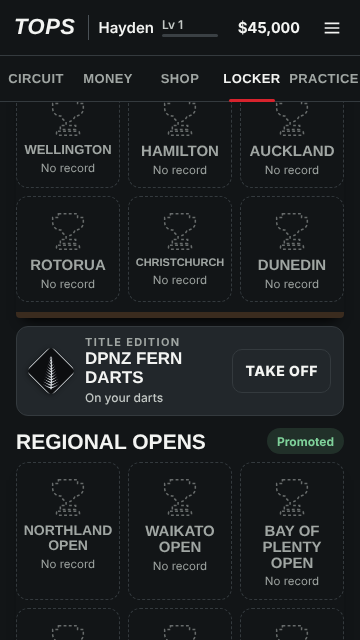
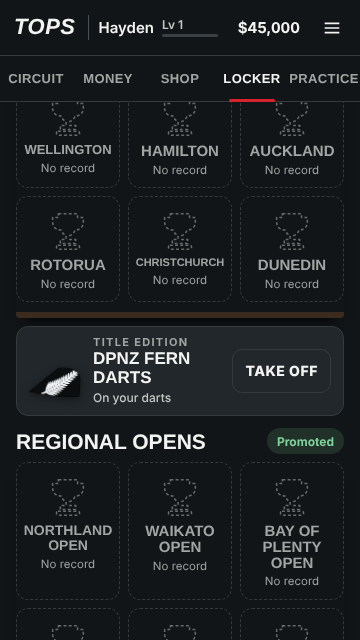
CAR-PRESTIGE: doc 75c flights; Club/Opens shirts hidden until their kit art; TT darts sell now ('shirt joins your locker when it's made'); flight swatch thumb; fix a // comment that swallowed the row's level lookup; s3-prestige checks the hidden Club row and the TT copy; tests/prestige-180.js: the c
Claude-Session: https://claude.ai/code/session_01WmQEKW8P3JoD3KeW8VR2JV

Changed region(s): [[0.0611, 0.5312, 0.55, 0.625]]

diff --git a/tests/s3-prestige.js b/tests/s3-prestige.js
@@ -1,6 +1,6 @@
 // CAR-PRESTIGE shop (Producer 22 Nov 07:03, decided with ChatGPT): a title at a level unlocks that level's premium edition, the trophy on the
 // shelf is the free proof, buying is cosmetic and one-off and never takes the bank below the next entry fee.
-//   1 locked until a title at that level (the Worlds edition needs the World Championship itself); kit-art editions (Club, Opens) aren't sold yet
+//   1 locked until a title at that level (the Worlds edition needs the World Championship itself); kit-art editions (Club, Opens) aren't sold or listed yet; the TT darts sell now and say the shirt follows
 //   2 a title + the money: bought, the bank drops by exactly the price, the edition is owned and worn (your darts wear it: TOPS_GEAR)
 //   3 the floor: a purchase that would leave less than the next entry fee is refused, the bank unchanged
 //   4 cosmetic only: setupBaseMult / setupTolMult / setupSwayMult (the throw maths) are identical with and without the edition
@@ -44,6 +44,7 @@ const f = []; const out = {}; fs.mkdirSync(path.join(dir, 'wip/car-prestige'), {
     await p.evaluate(() => { const ch = document.querySelector('[data-s3="troph"]'); if (ch) ch.click(); }); await p.waitForTimeout(1500);
     return p.evaluate(() => ({ rows: [...document.querySelectorAll('[data-edrow]')].map(r => r.innerText.replace(/\s+/g, ' ')) })); };
   out.shelf = await shelf();
+  out.tt = await p.evaluate(() => { const k = career().circuit; k.history.push({ week: 30, id: 'tt_1', n: 'Trans-Tasman', level: 4, fin: 'W', prize: 0, pts: 0 }); const d = document.createElement('div'); d.innerHTML = TOPS_PRESTIGE.row(4); return d.innerText.replace(/\s+/g, ' '); });
   // the Club edition isn't on sale (kit art), so test the buy flow on DPNZ: give a DPNZ title and redraw the shelf
   out.buyFlow = await p.evaluate(async () => { const k = career().circuit; k.level = 3; career().tier = 3; k.history.push({ week: 20, id: 'dpnz_1', n: 'DPNZ', level: 3, fin: 'W', prize: 0, pts: 0 }); persist();
     const ch = document.querySelector('[data-s3="trback"]'); try { showHub('play'); } catch (e) {} await new Promise(r => setTimeout(r, 1500)); const t = document.querySelector('[data-s3="troph"]'); if (t) t.click(); await new Promise(r => setTimeout(r, 1500));
@@ -54,9 +55,9 @@ const f = []; const out = {}; fs.mkdirSync(path.join(dir, 'wip/car-prestige'), {
   for (const [w, h] of [[390, 844], [360, 640]]) { await p.setViewportSize({ width: w, height: h }); await p.waitForTimeout(400); await p.evaluate(() => { const r = document.querySelector('[data-edrow="3"]'); if (r) r.scrollIntoView({ block: 'center' }); }); await p.waitForTimeout(300); await p.screenshot({ path: path.join(dir, `wip/car-prestige/shop-${w}.png`) }); }
   const bf = out.buyFlow;
   if (!/Buy · \$5,000/i.test(bf.r0 || '') || !/Tap again to buy/i.test(bf.r1 || '') || !/Take off/i.test(bf.r2 || '') || bf.paid !== 5000 || bf.gear !== 'dpnz') f.push('6 shelf buy flow ' + JSON.stringify(bf));
-  if (!out.shelf.rows.some(r => /Kauri Arms flights/i.test(r) && /Take off/i.test(r)) || !out.shelf.rows.some(r => /Club shirt/i.test(r) && /new kits/i.test(r))) f.push('6 shelf rows ' + JSON.stringify(out.shelf));
+  if (!out.shelf.rows.some(r => /Kauri Arms flights/i.test(r) && /Take off/i.test(r)) || out.shelf.rows.some(r => /Club shirt/i.test(r)) || !/shirt joins your locker when it’s made/i.test(out.tt || '')) f.push('6 shelf rows ' + JSON.stringify(out.shelf));
   if (pe.length) f.push('page errors ' + pe.slice(0, 2).join(' | '));
   await b.close();
   if (f.length) { console.log('FAIL\n- ' + f.join('\n- ') + '\n' + JSON.stringify(out).slice(0, 1500)); process.exit(1); }
-  console.log(`PASS: locked until a title at the level (Worlds needs the World Championship); not enough money and the entry-fee floor ($${e.fee}) refuse with the bank untouched; a buy takes exactly the price, the edition is owned and on your darts; the throw maths are identical with it on; no double buy, Club shirt not on sale yet; wear/take off; owned and worn survive a reload; the trophy shelf row goes "${bf.r0}" → "${bf.r1}" → "${bf.r2}" ($${bf.paid}); captures shop-390/360`);
+  console.log(`PASS: locked until a title at the level (Worlds needs the World Championship); not enough money and the entry-fee floor ($${e.fee}) refuse with the bank untouched; a buy takes exactly the price, the edition is owned and on your darts; the throw maths are identical with it on; no double buy, Club shirt not listed; TT row: "${(out.tt||'').slice(0,90)}"; wear/take off; owned and worn survive a reload; the trophy shelf row goes "${bf.r0}" → "${bf.r1}" → "${bf.r2}" ($${bf.paid}); captures shop-390/360`);
 })();

diff --git a/tests/prestige-180.js b/tests/prestige-180.js
@@ -20,7 +20,10 @@ const srv = http.createServer((q, r) => { const u = decodeURIComponent(q.url.spl
     await p.evaluate(ed => { save.authSeen = true; $('login').hidden = true; save.name = 'Hayden'; newCareer(); persist(); window.TOPS_GEAR_PREVIEW = ed === 'default' ? null : ed;
       window.TOPS_GEARCAM_QA = { still: 1, hold: 9000 }; const _f = TOPS_GEARCAM_FIRE; window.__fired = null; TOPS_GEARCAM_FIRE = k => { window.__fired = k; return _f(k); };
       const e = TOPS_S3.view().calendar[0]; TOPS_S3.book(e.id); TOPS_S3._playNow(); }, ed);
-    // past the bull-up and onto your first visit (dart 1, your turn, nothing flying)
+    // the bull-up: your dart goes in the bull through the same throw path, so you throw first
+    for (let i = 0; i < 60; i++) { const bu = await p.evaluate(() => typeof S !== 'undefined' && S && S.bull && S.bull.me == null && !S.busy).catch(() => false); if (bu) break; await p.waitForTimeout(500); }
+    await p.evaluate(() => { S.busy = true; V.fly(V.handWorld(), 0, 0, 0, 380, .05, () => { S.anim = null; land(0, 0, false); }); });
+    // then onto your first visit (dart 1, your turn, nothing flying)
     for (let i = 0; i < 160; i++) { const ok = await p.evaluate(() => typeof S !== 'undefined' && S && !S.bull && S.cur === 0 && S.dart === 1 && !S.busy && !S.done && !S.aiFlying).catch(() => false); if (ok) break; await p.waitForTimeout(500); }
     await p.waitForTimeout(800);
     const r = await p.evaluate(() => new Promise(res => { const T = [[-1.5, -103], [1, -102.4], [2.5, -103.6]]; let i = 0;

diff --git a/tc/s3.js b/tc/s3.js
@@ -314,7 +314,7 @@
      handled here (delegated), and the row redraws itself. Buying takes two taps (the first arms it for 3 s), never a dialog. */
   const $m = n => '$' + Math.round(n).toLocaleString('en-NZ'); const esc = s => String(s).replace(/[&<>"]/g, ch => ({ '&': '&amp;', '<': '&lt;', '>': '&gt;', '"': '&quot;' })[ch]);
   const THUMB = {}; const thumb = id => { if (!PARTS[id]) return ''; const nm = (typeof save !== 'undefined' && save.name) || 'You', k = id + '|' + nm; try { if (!THUMB[k]) THUMB[k] = swatch(id, nm, 112).toDataURL('image/png'); } catch (e) { return ''; } return THUMB[k]; };   // 75c: the flight-shaped swatch
-  function row(lv) { const ed = ED.find(x => x.lv === lv); if (!ed || !READY[ed.id]) return ''; const st = state(ed.id); if (!st) return '';   // never list what can't render yet (Producer 10:40): Club/Opens shirts wait for their kit art const E = CIRC(), L = E && E.LEVELS[lv];
+  function row(lv) { const ed = ED.find(x => x.lv === lv); if (!ed || !READY[ed.id]) return ''; const st = state(ed.id); if (!st) return '';   /* never list what can't render yet (Producer 10:40): Club/Opens shirts wait for their kit art */ const E = CIRC(), L = E && E.LEVELS[lv];
     let line, btn = '';
     if (!st.ready) line = 'Joins the shop with the new kits';
     else if (!st.won) line = (ed.id === 'worlds' ? 'Win the World Championship' : 'Win a ' + esc(L ? L.n : '') + ' title') + ' to unlock · ' + $m(ed.price);
